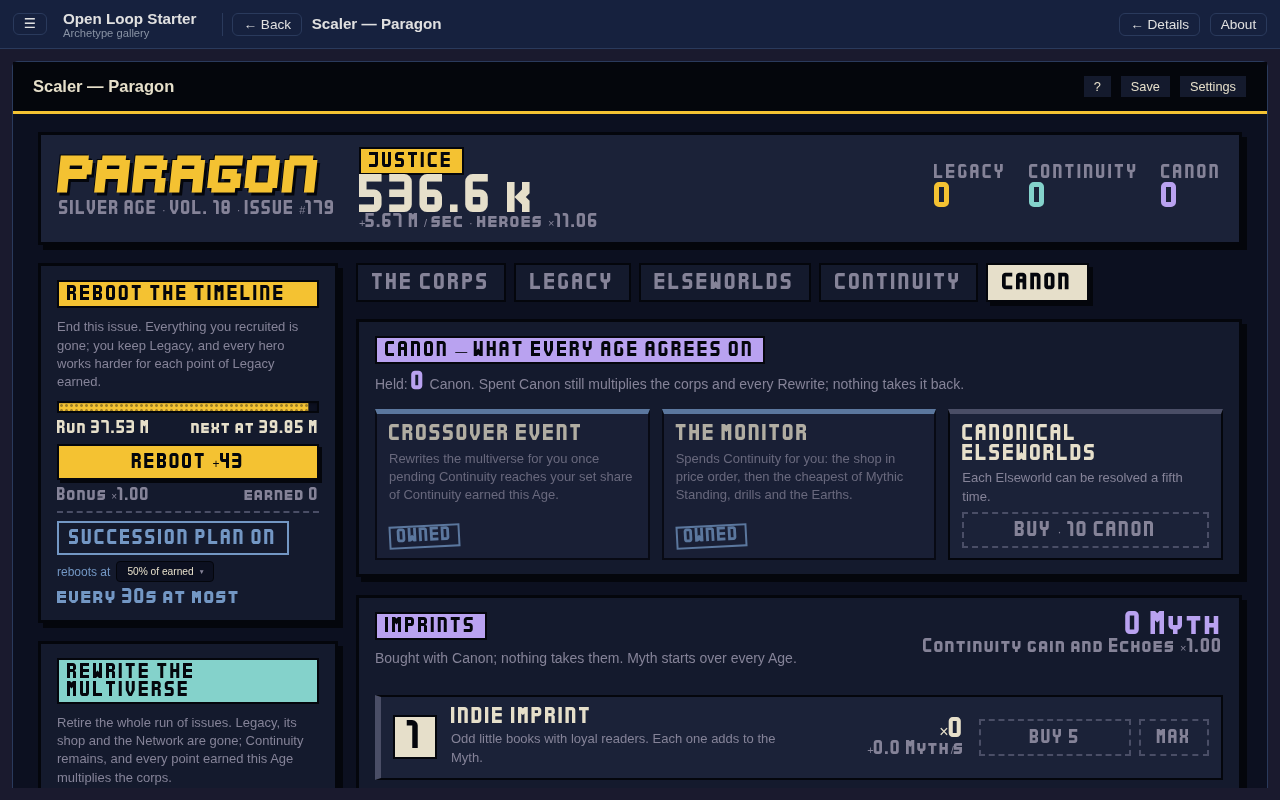
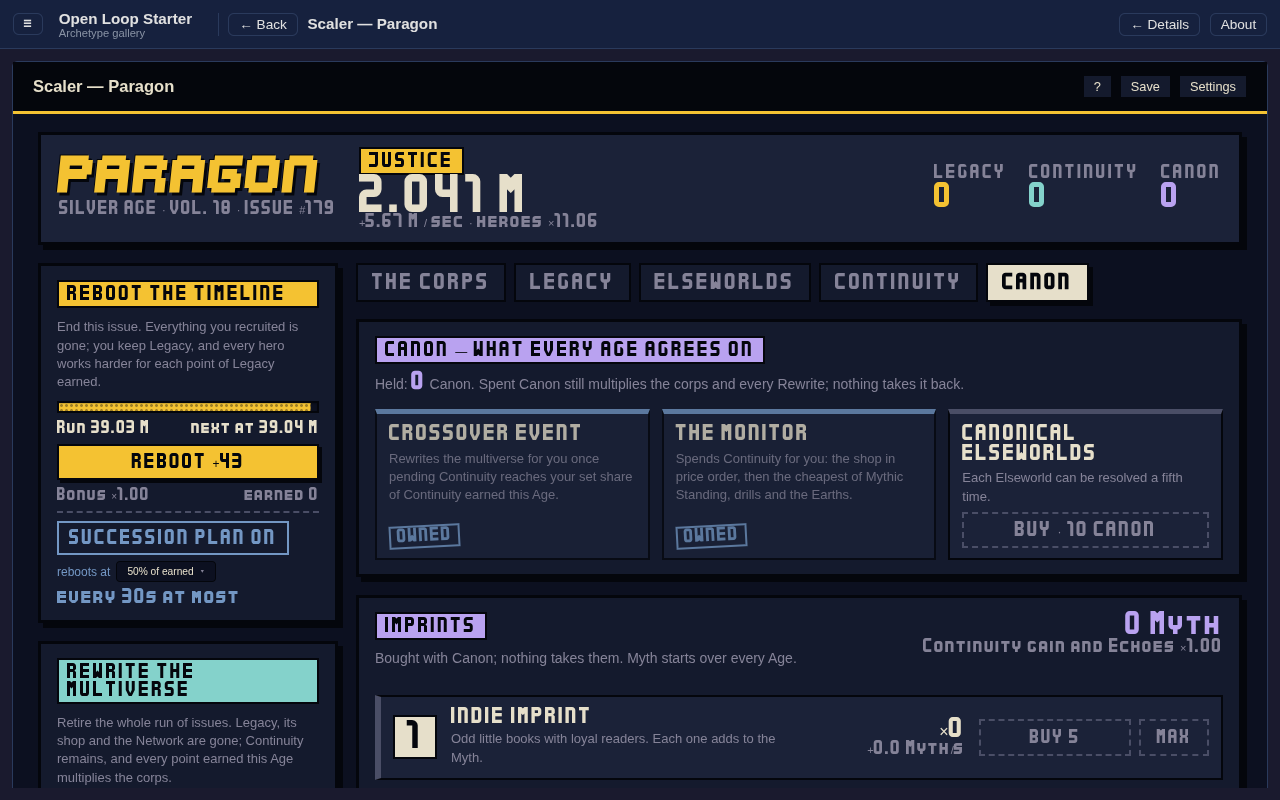
balance(scaler): the reference player is a tick handler
seatReferencePlayer takes a turn every PLAYER_EVERY game seconds after an opening turn; until reads, and keeps the previous read for the desk counter. beat-saves reads its saves in a read-only handler registered before the seat, because the player reboots in the tick Legacy first reaches 1. The game is unchanged; beats the player's own turn writes read half a second earlier, so seven windows are re-recorded with the IDENTITY arc table and the tier-opening range. 2-elseworld and 3-age were already stale, so they are regenerated and re-shot.

Refs #63

Changed region(s): [[0.2812, 0.2188, 0.4375, 0.2812], [0.0312, 0.0, 0.1562, 0.0625], [0.2188, 0.0, 0.3438, 0.0625]]

diff --git a/src/showcase/archetypes/scaler/balance/_engine.ts b/src/showcase/archetypes/scaler/balance/_engine.ts
@@ -1,13 +1,20 @@
 /**
  * Shared probe fixture, not runnable on its own. Builds a real scaler engine and
- * plays the arc on it under the reference player (`../modules/reference-player.ts`).
+ * plays the arc on it under the reference player (`../modules/reference-player.ts`),
+ * which `seatReferencePlayer` runs on the engine's tick driver.
  *
  * This is not a duplicate of `../sim/harness.ts`. That boots the module list for
  * tick-by-tick behavioral specs; this assembles an instrumented arc runner that
  * records beats and reads magnitudes.
  */
 
-import { Decimal, runUntil, type DecimalSource, type Engine } from '@open-loop/engine';
+import {
+  Decimal,
+  createThrottle,
+  runUntil,
+  type DecimalSource,
+  type Engine,
+} from '@open-loop/engine';
 import { bootTestEngine } from '@/test/bootTestEngine';
 import { sharedBase } from '@/modules';
 import {
@@ -30,6 +37,7 @@ import {
   type LegacyApi,
   type LegendsApi,
   type PrestigeApi,
+  type ReferencePlayer,
   type RunApi,
 } from '../modules';
 import { TIERS } from '../data';
@@ -38,6 +46,8 @@ import { TIERS } from '../data';
 export const DT = 0.5;
 /** Engine intervals per second. */
 export const INTERVAL_RATE = 20;
+/** Game seconds between the reference player's turns. */
+export const PLAYER_EVERY = 0.5;
 
 export const num = (x: DecimalSource) => Decimal.fromValue(x).toNumber();
 
@@ -96,6 +106,26 @@ export interface ArcResult {
 }
 
 /**
+ * Seats the reference player on the engine's tick driver: it takes a turn every
+ * `PLAYER_EVERY` game seconds, whatever `tickDelta` the runner steps by, and a runner's
+ * `until` stays a read. A tick longer than `PLAYER_EVERY` holds one turn, so at a coarser
+ * `tickDelta` the player turns once a tick.
+ *
+ * The game has no tick phases, so a turn runs after every module's own tick handler:
+ * it sees the state its tick left, and the next tick's modules see its writes.
+ *
+ * @param engine - the running engine whose modules the player works
+ * @param player - the player to seat; the caller keeps it to read what it entered
+ * @returns the function that unseats the player; call it when the run ends.
+ */
+export function seatReferencePlayer(engine: Engine, player: ReferencePlayer): () => void {
+  const turn = createThrottle({ interval: PLAYER_EVERY });
+  return engine.tickDriver.onTick((dt) => {
+    if (turn.ready(dt)) player.turn();
+  });
+}
+
+/**
  * Play the arc for `seconds`, one engine tick of `dt` per runner step. The caller
  * reads the end state off the returned APIs.
  */
@@ -145,7 +175,10 @@ export function runArc(seconds: number, dt = DT): ArcResult {
   let resetsBefore = 0;
   let deskRan = false;
 
-  /** Reads what the last advance did; true when the run must stop on an anomaly. */
+  /**
+   * Reads what the last advance did, the player's turn in it included; true when the run
+   * must stop on an anomaly.
+   */
   function readStep(): boolean {
     // A reset in the tick wipes the corps, so its recruits cannot be read off.
     if (deskRan && resets() === resetsBefore) {
@@ -211,29 +244,35 @@ export function runArc(seconds: number, dt = DT): ArcResult {
     return false;
   }
 
-  // TODO(expansion): a per-iteration act hook on runUntil. Until then `until` carries the
-  // player's step, which `'uniform'` mode runs before every advance.
-  runUntil({
-    engine: handle.engine,
-    tickDelta: dt,
-    // The run ends on the game's own play clock; this cap only bounds the loop.
-    maxSimTime: seconds + dt,
-    until: ({ iteration }) => {
-      // Iteration 0 is the cold start: no advance yet, so nothing to read off.
-      if (iteration > 0 && readStep()) return true;
-      if (t() >= seconds) return true;
-      rebootsBefore = core.reboots.value;
-      rewritesBefore = core.rewrites.value;
-      agesBefore = core.ages.value;
-      continuityBefore = num(continuity.continuity.cumulative!.value);
-      canonBefore = num(canon.canon.cumulative!.value);
-      player.turn();
-      corpsBefore = corps();
-      resetsBefore = resets();
-      deskRan = deskOn();
-      return false;
-    },
-  });
+  // The opening turn, before any tick: the seat's first turn is inside the first tick.
+  player.turn();
+  const unseat = seatReferencePlayer(handle.engine, player);
+  try {
+    runUntil({
+      engine: handle.engine,
+      tickDelta: dt,
+      // The run ends on the game's own play clock; this cap only bounds the loop.
+      maxSimTime: seconds + dt,
+      until: ({ iteration }) => {
+        // Iteration 0 is the cold start: no advance yet, so nothing to read off.
+        if (iteration > 0 && readStep()) return true;
+        if (t() >= seconds) return true;
+        // The previous read: the next advance's resets, gains and recruits are measured
+        // against it.
+        rebootsBefore = core.reboots.value;
+        rewritesBefore = core.rewrites.value;
+        agesBefore = core.ages.value;
+        continuityBefore = num(continuity.continuity.cumulative!.value);
+        canonBefore = num(canon.canon.cumulative!.value);
+        corpsBefore = corps();
+        resetsBefore = resets();
+        deskRan = deskOn();
+        return false;
+      },
+    });
+  } finally {
+    unseat();
+  }
 
   return {
     beats,

diff --git a/src/showcase/archetypes/scaler/shots/beat-saves.ts b/src/showcase/archetypes/scaler/shots/beat-saves.ts
@@ -8,7 +8,7 @@
  */
 import { writeFileSync } from 'node:fs';
 import { join } from 'node:path';
-import { Decimal } from '@open-loop/engine';
+import { Decimal, runUntil } from '@open-loop/engine';
 import { createScalerEngine } from '../engine';
 import {
   createReferencePlayer,
@@ -19,14 +19,13 @@ import {
   getPrestige,
   getRun,
 } from '../modules';
+import { DT, seatReferencePlayer } from '../balance/_engine';
 
-/** The arc probe's step: one player turn, then one tick of this many seconds. */
-const STEP = 0.5;
 const MAX_SIM = 7200;
 
 const { engine } = createScalerEngine({ persistenceNamespace: 'beat-saves' });
 engine.start();
-engine.tickDriver.stop(); // the loop below drives the ticks
+engine.tickDriver.stop(); // runUntil below drives the ticks
 
 const core = getCore();
 const run = getRun();
@@ -63,19 +62,36 @@ const BEATS: { file: string; at: () => boolean }[] = [
 
 const dir = import.meta.dirname;
 let next = 0;
-while (t() < MAX_SIM && next < BEATS.length) {
-  player.turn();
-  engine.tickDriver.processInterval(STEP);
+/** Saves the next beat when its moment holds. It reads and exports; it writes no game state. */
+function saveBeat(): void {
+  if (next === BEATS.length) return;
   if (inElseworld('villain-uprising') && enteredAt === Infinity) enteredAt = t();
   if (core.ages.value >= 1 && agedAt === Infinity) agedAt = t();
-  if (BEATS[next]!.at()) {
-    const { file } = BEATS[next]!;
-    writeFileSync(join(dir, `${file}.save`), engine.saveManager!.exportSave() + '\n');
-    console.log(
-      `${file} at sim ${t().toFixed(1)}s, run ${run.runSeconds.value.toFixed(1)}s, reboots ${core.reboots.value}, rewrites ${core.rewrites.value}, ages ${core.ages.value}`,
-    );
-    next++;
-  }
+  if (!BEATS[next]!.at()) return;
+  const { file } = BEATS[next]!;
+  writeFileSync(join(dir, `${file}.save`), engine.saveManager!.exportSave() + '\n');
+  console.log(
+    `${file} at sim ${t().toFixed(1)}s, run ${run.runSeconds.value.toFixed(1)}s, reboots ${core.reboots.value}, rewrites ${core.rewrites.value}, ages ${core.ages.value}`,
+  );
+  next++;
+}
+
+// The opening turn, before any tick: the seat's first turn is inside the first tick.
+player.turn();
+// The beat reader goes before the seat, so it reads after the modules and before the turn.
+// 1-corps needs that: the player reboots in the turn its first Legacy comes pending.
+const unread = engine.tickDriver.onTick(saveBeat);
+const unseat = seatReferencePlayer(engine, player);
+try {
+  runUntil({
+    engine,
+    tickDelta: DT,
+    maxSimTime: MAX_SIM,
+    until: () => next === BEATS.length,
+  });
+} finally {
+  unseat();
+  unread();
 }
 if (next < BEATS.length) throw new Error(`stopped before beat ${BEATS[next]!.file}`);
 engine.dispose();

diff --git a/src/showcase/archetypes/scaler/manifest.ts b/src/showcase/archetypes/scaler/manifest.ts
@@ -56,18 +56,18 @@ export const manifest: ArchetypeManifest = {
   ],
   beats: [
     { n: 1, label: 'First Night Patrol', recordedFireTimeRange: [0.5, 0.5] },
-    { n: 2, label: 'First Reboot of the Timeline', recordedFireTimeRange: [227.5, 227.5] },
-    { n: 3, label: 'Elseworld Protocols bought', recordedFireTimeRange: [484.5, 484.5] },
+    { n: 2, label: 'First Reboot of the Timeline', recordedFireTimeRange: [227, 227] },
+    { n: 3, label: 'Elseworld Protocols bought', recordedFireTimeRange: [484, 484] },
     { n: 4, label: 'First Elseworld tier resolved', recordedFireTimeRange: [1031.5, 1031.5] },
-    { n: 5, label: 'First Rewrite of the Multiverse', recordedFireTimeRange: [1531.5, 1531.5] },
+    { n: 5, label: 'First Rewrite of the Multiverse', recordedFireTimeRange: [1531, 1531] },
     {
       n: 6,
       label: 'The Silver Age: first Turn of the Age',
-      recordedFireTimeRange: [6040.5, 6040.5],
+      recordedFireTimeRange: [6040, 6040],
     },
-    { n: 7, label: 'The Bronze Age', recordedFireTimeRange: [9045.5, 9045.5] },
-    { n: 8, label: 'The Dark Age', recordedFireTimeRange: [11562, 11562] },
-    { n: 9, label: 'The Modern Age: the end beat', recordedFireTimeRange: [14162, 14162] },
+    { n: 7, label: 'The Bronze Age', recordedFireTimeRange: [9045, 9045] },
+    { n: 8, label: 'The Dark Age', recordedFireTimeRange: [11561.5, 11561.5] },
+    { n: 9, label: 'The Modern Age: the end beat', recordedFireTimeRange: [14161.5, 14161.5] },
   ],
 
   shell: 'ColumnShell · topBar + left',

diff --git a/src/showcase/archetypes/scaler/data/spine.ts b/src/showcase/archetypes/scaler/data/spine.ts
@@ -38,7 +38,7 @@ export const ANCHORS = {
   /**
    * Units of a tier the run holds when it opens the next one. Fitted, not chosen:
    * the Dispatch Desk holds 5 when the next tier opens, and 4 lands the ladder
-   * model's openings within 4–18% of the engine's. The fractional hold absorbs
+   * model's openings within 4–16% of the engine's. The fractional hold absorbs
    * that the desk interleaves tiers where the ladder fills them in order.
    */
   // balance/arc-probe.ts § tier openings; the game has no RNG, so one run is the measurement

diff --git a/src/showcase/archetypes/scaler/BALANCING.md b/src/showcase/archetypes/scaler/BALANCING.md
@@ -110,5 +110,5 @@ anything that acts once per tick.
 - **Most Elseworld tiers resolve in seconds, not two minutes.** The reference enters on
   the first fresh timeline past the slot that is strong enough, which is usually much
   stronger than the slot's sizing. A goal is a minimum, not a duration.
-- **The tier openings run behind the ladder model.** The engine opens tiers 4–18% after
+- **The tier openings run behind the ladder model.** The engine opens tiers 4–16% after
   the spine; `hold` absorbs the interleaving only on average.

diff --git a/src/showcase/archetypes/scaler/IDENTITY.md b/src/showcase/archetypes/scaler/IDENTITY.md
@@ -66,8 +66,8 @@ no RNG, so one run is the measurement.
 | First Rewrite | 26m01s | 25m31s |
 | The Silver Age | 1h45m42s | 1h40m40s |
 | The Bronze Age | 2h36m48s | 2h30m45s |
-| The Dark Age | 3h18m22s | 3h12m42s |
-| The Modern Age, the end beat | 4h02m39s | 3h56m02s |
+| The Dark Age | 3h18m22s | 3h12m41s |
+| The Modern Age, the end beat | 4h02m39s | 3h56m01s |
 
 An Elseworld tier comes up about every nine minutes from 0:16 to 3:57. Play goes on past
 the Modern Age, each Age's gate growing by the last.
